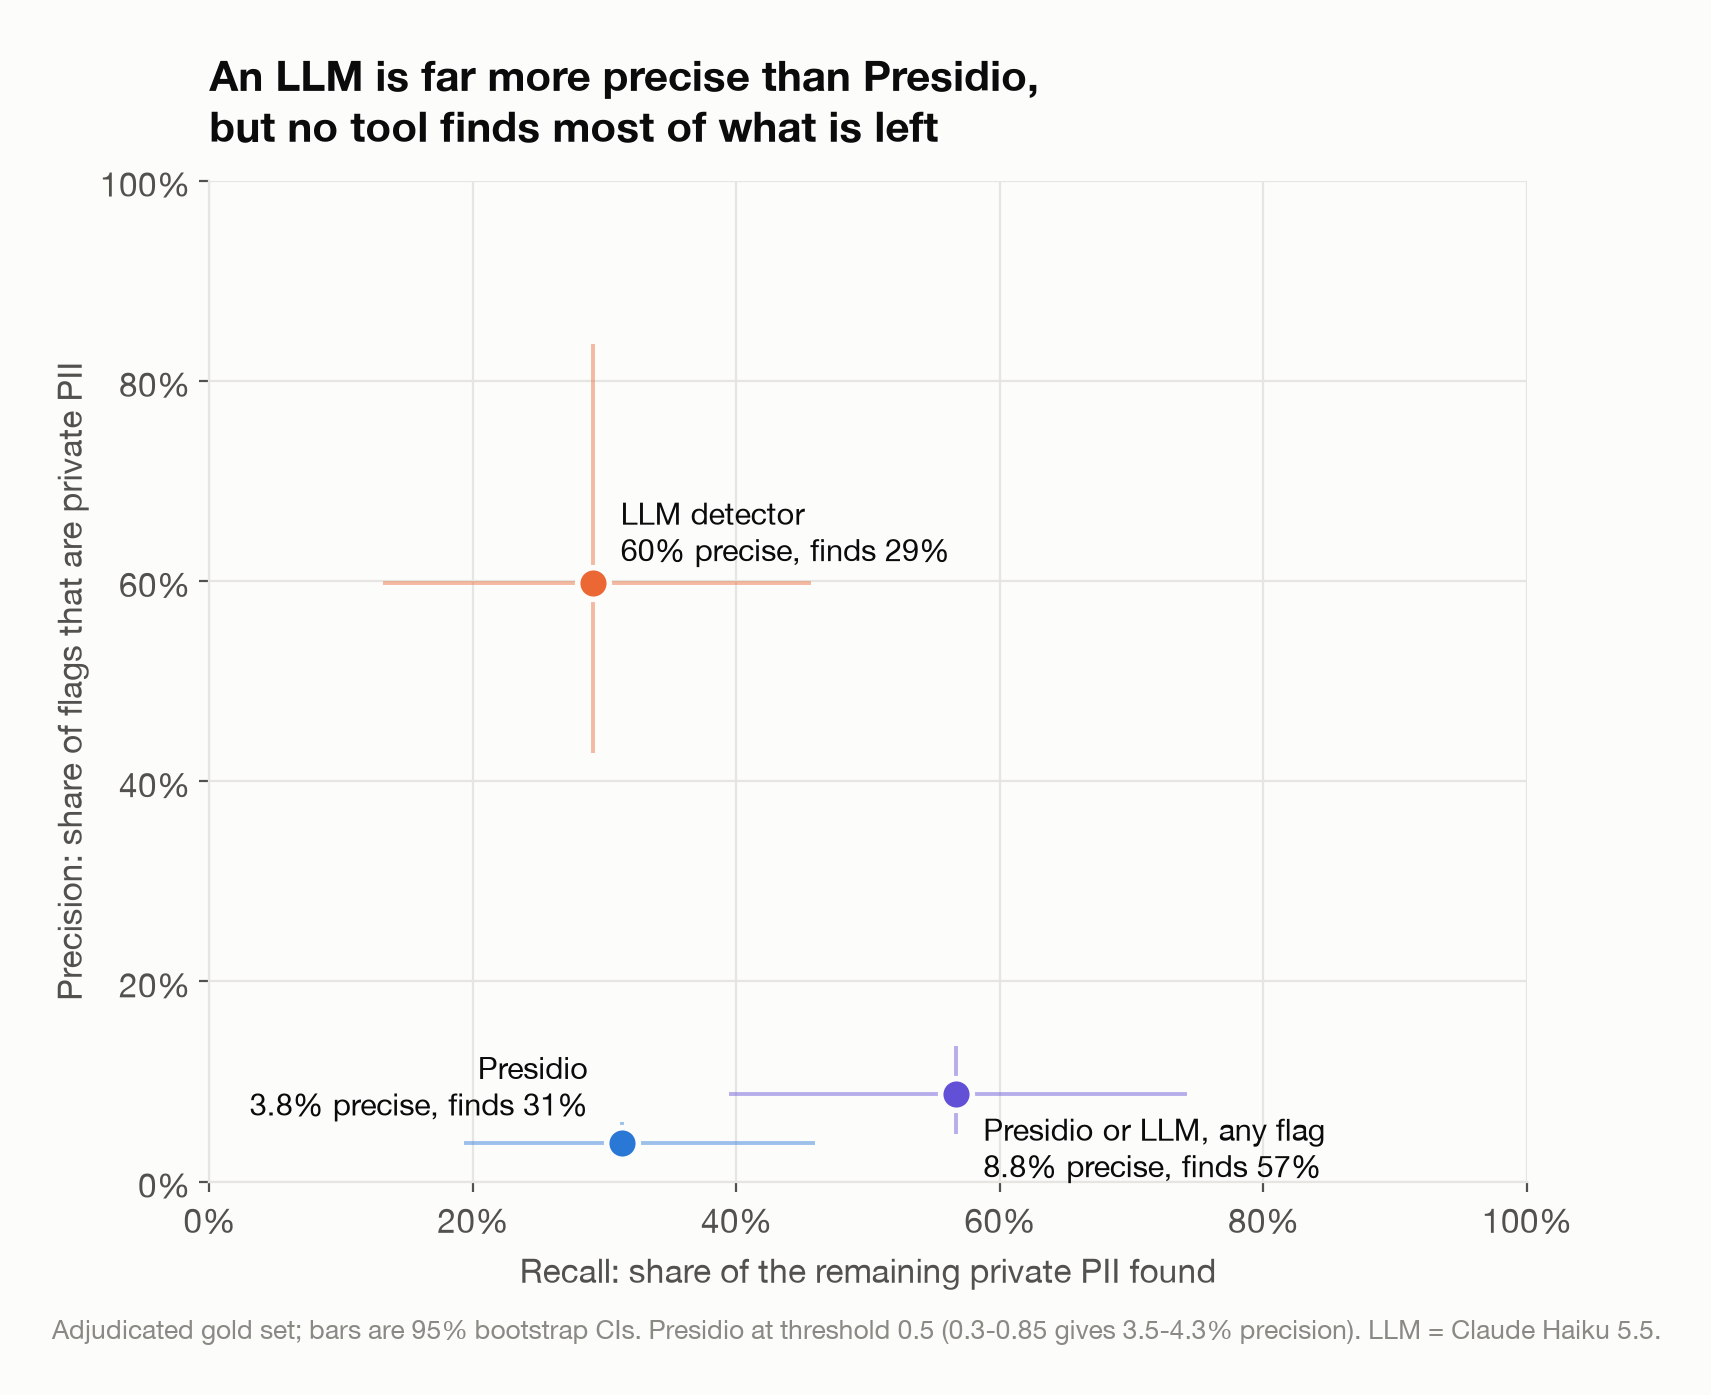
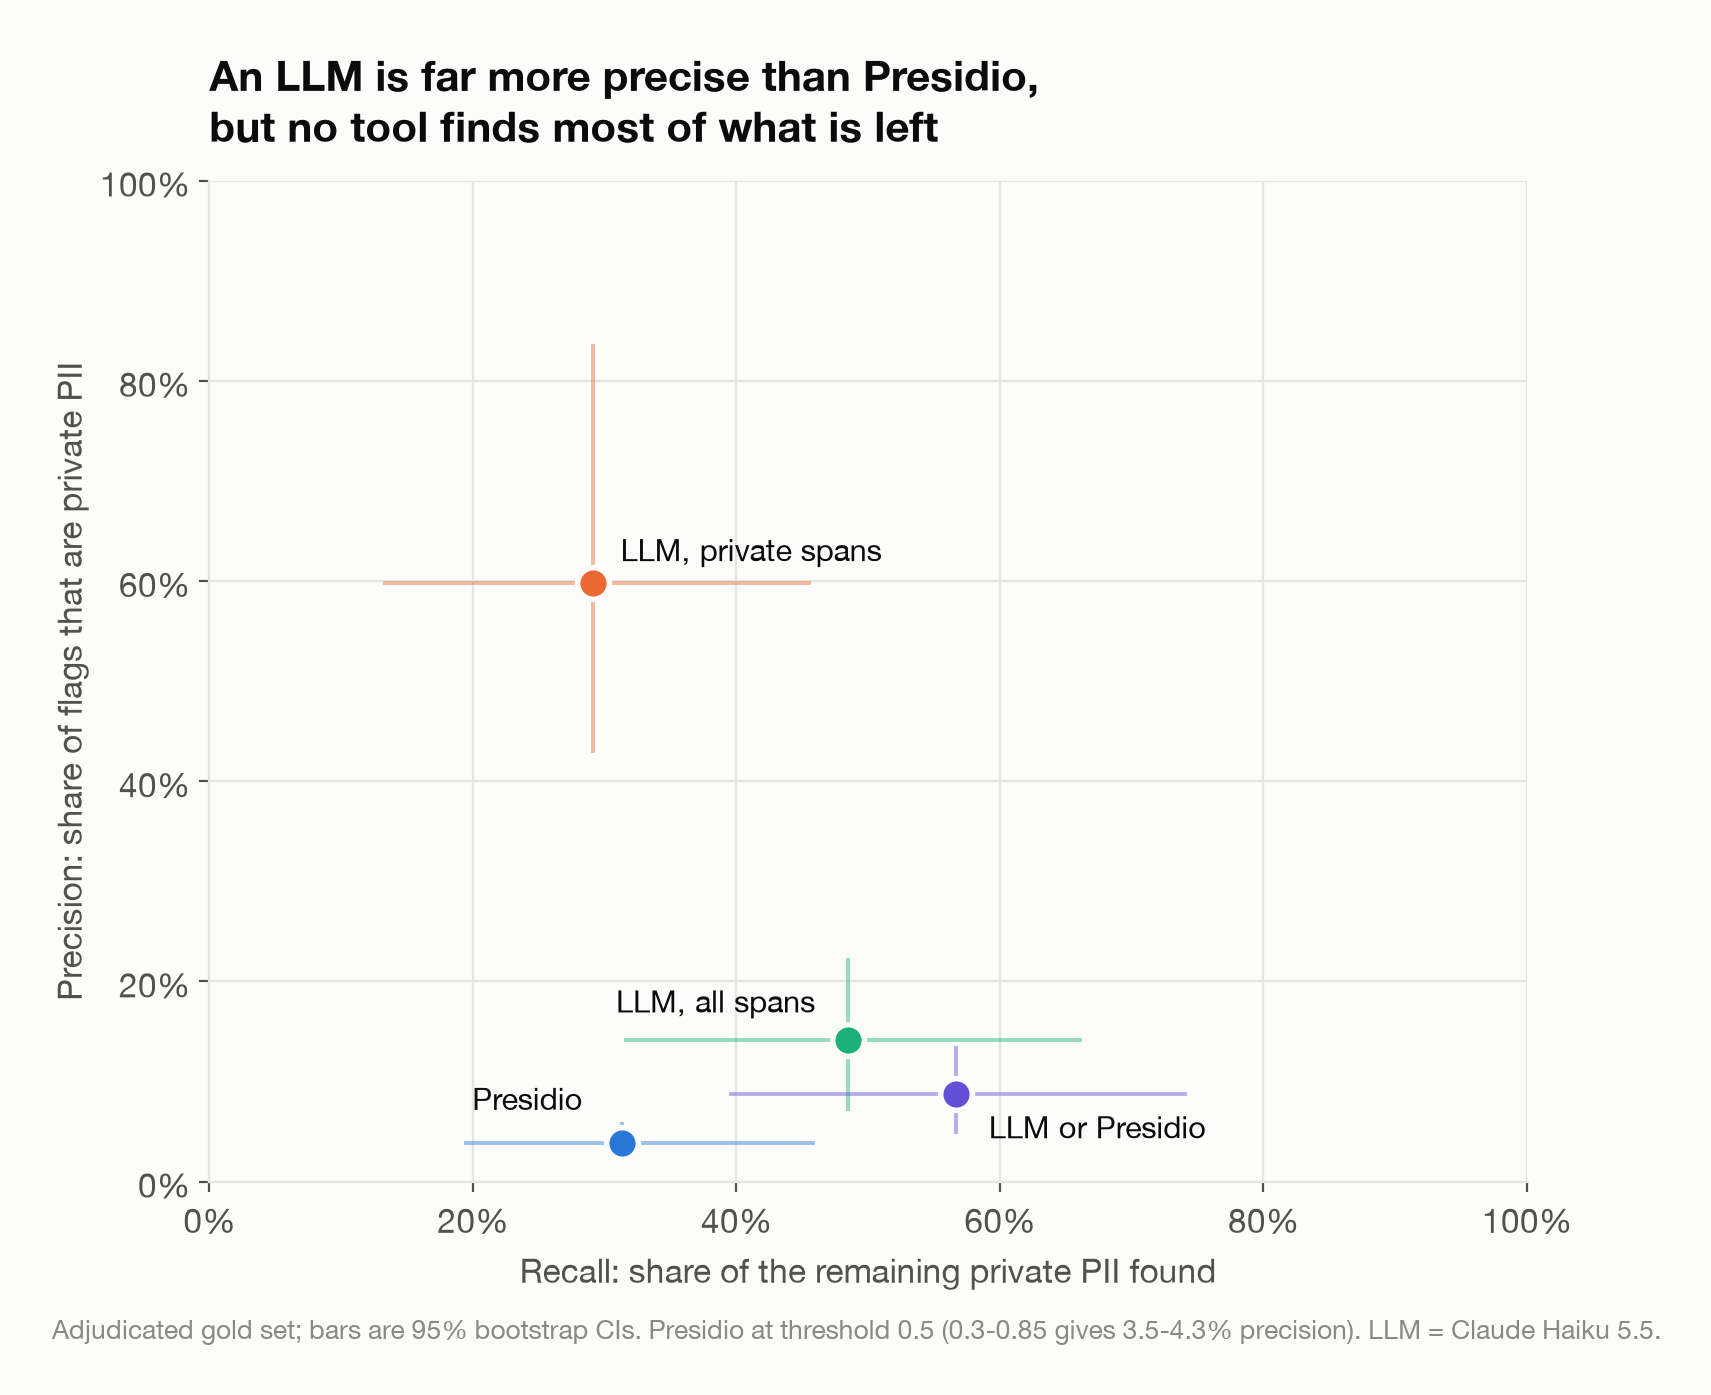
Precision-recall figure: four detector points, labelled by name only

diff --git a/src/residpii/presentation.py b/src/residpii/presentation.py
@@ -131,12 +131,11 @@ def _pr(detector, category="any", threshold=0.5):
 
 
 def fig_detector_pr():
-    # The LLM's "all spans" variant (every mark, whoever it belongs to) is left out: it only restates
-    # that a superset of flags trades precision for recall; the ownership point is made in the text.
-    dets = [("Presidio", "presidio", BLUE), ("LLM detector", "llm_detector", ORANGE),
-            ("Presidio or LLM, any flag", "any", VIOLET)]
+    # Labels only: the values are read off the axes and given in the accompanying text.
+    dets = [("Presidio", "presidio", BLUE), ("LLM, private spans", "llm_detector", ORANGE),
+            ("LLM, all spans", "llm_detector_all", AQUA), ("LLM or Presidio", "any", VIOLET)]
     fig, ax = plt.subplots(figsize=(8.5, 6.5))
-    offsets = {"presidio": (-12, 10), "llm_detector": (10, 8), "llm_detector_all": (-10, 28), "any": (10, -30)}
+    offsets = {"presidio": (-14, 12), "llm_detector": (10, 8), "llm_detector_all": (-12, 10), "any": (12, -16)}
     for label, det, col in dets:
         d = _pr(det)
         p, r = d["precision"], d["recall"]
@@ -144,7 +143,7 @@ def fig_detector_pr():
                     yerr=_err(p.ci_low, p.ci_high, p.value), fmt="none", ecolor=col, alpha=0.45, elinewidth=1.4)
         ax.scatter(r.value, p.value, s=130, color=col, edgecolor=SURFACE, linewidth=2, zorder=3)
         prec = f"{p.value:.1%}" if p.value < 0.1 else f"{p.value:.0%}"
-        ax.annotate(f"{label}\n{prec} precise, finds {r.value:.0%}", (r.value, p.value),
+        ax.annotate(label, (r.value, p.value),
                     xytext=offsets[det], textcoords="offset points", fontsize=11, color=INK,
                     ha="right" if det in ("llm_detector_all", "presidio") else "left")
     _pct(ax, "x"), _pct(ax, "y")
